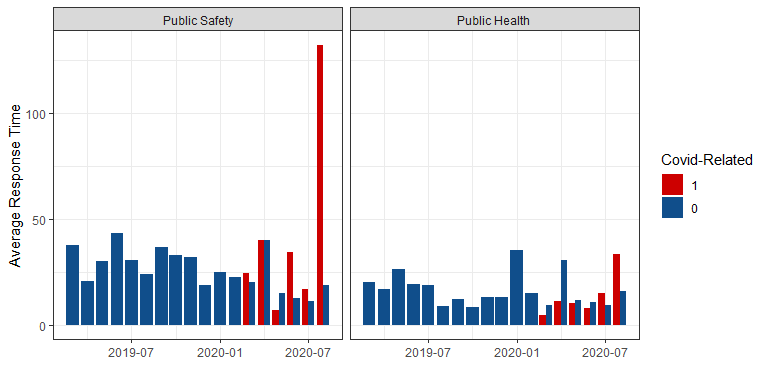
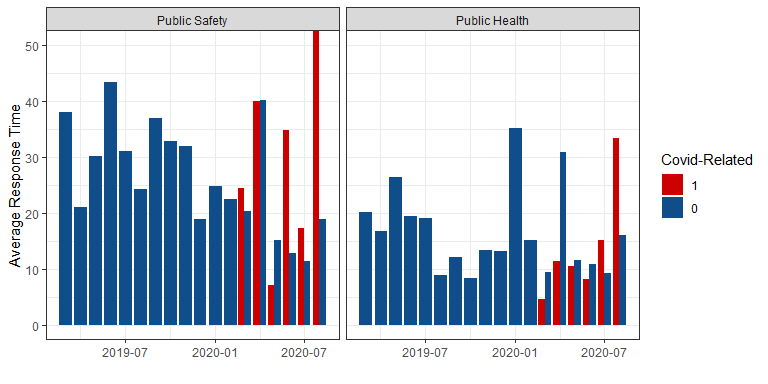
update

diff --git a/draft_v2.md b/draft_v2.md
@@ -149,6 +149,7 @@ dat %>%
        x = "",
        fill = "Covid-Related"
        )+
+  coord_cartesian(ylim = c(0, 50)) +
   theme_bw()
 ```
 
@@ -157,6 +158,43 @@ dat %>%
     ## Joining, by = "CATEGORY"
 
 ![](draft_v2_files/figure-gfm/unnamed-chunk-3-1.png)<!-- -->
+
+``` r
+# plot request volume by categories
+dat %>% 
+  filter(CATEGORY != "Data Not Available") %>%
+  filter(CREATEMO %in% 3:8) %>%
+  group_by(CREATEYR,allcovid,CATEGORY) %>%
+  count() %>% 
+  left_join(diff)%>%
+  mutate(CREATEYR = as.factor(CREATEYR),allcovid = as.factor(allcovid) )%>%
+  ggplot(aes(x = CREATEYR, y = n,  group = reorder(CREATEYR,n), fill = CREATEYR))+
+  geom_col_pattern(aes(pattern = reorder(allcovid,n)),#position = position_dodge(),
+                   col="black",width = 0.8)+
+  facet_wrap(~reorder(CATEGORY,-diff_pchg), scale = "free_y", ncol = 5)+
+  scale_fill_manual(values = c("dodgerblue4","red3"))+
+  scale_pattern_manual(values=c("stripe","none"))+
+  scale_y_continuous(labels =scales::comma)+
+  labs(y = "Requests Volume",
+       x = "",
+       fill = "Year",
+       pattern = "Covid-Related"
+       )+
+  theme_bw()
+```
+
+    ## Joining, by = "CATEGORY"
+
+    ## Warning: convert_polygon_sf_to_polygon_df(): Not POLYGON or MULTIPOLYGON:
+    ## c("XY", "LINESTRING", "sfg")
+
+    ## Warning: convert_polygon_sf_to_polygon_df(): Not POLYGON or MULTIPOLYGON:
+    ## c("XY", "LINESTRING", "sfg")
+
+    ## Warning: convert_polygon_sf_to_polygon_df(): Not POLYGON or MULTIPOLYGON:
+    ## c("XY", "LINESTRING", "sfg")
+
+![](draft_v2_files/figure-gfm/unnamed-chunk-4-1.png)<!-- -->
 
 ``` r
 # plot response time by categories
@@ -171,10 +209,10 @@ dat %>%
   dcast(CATEGORY+diff_pchg~CREATEYR) %>% mutate(
     dtc_chg = `2020`-`2019`
   ) %>%
-  ggplot(aes(x = dtc_chg, y = reorder(CATEGORY,diff_pchg), fill = (diff_pchg>1) ))+
+  ggplot(aes(x = dtc_chg, y = reorder(CATEGORY,diff_pchg), fill = (diff_pchg) ))+
   geom_col(show.legend = FALSE)+
-  xlim(c(-10,25))+
-  scale_fill_manual(values = c("red3","dodgerblue4"))+
+  xlim(c(-10,20))+
+  #scale_fill_manual(values = c("red3","dodgerblue4"))+
   labs(x = "Change in Average Response Time",
        y = "",
   )+
@@ -189,7 +227,7 @@ dat %>%
 
     ## Warning: Removed 1 rows containing missing values (position_stack).
 
-![](draft_v2_files/figure-gfm/unnamed-chunk-4-1.png)<!-- -->
+![](draft_v2_files/figure-gfm/unnamed-chunk-5-1.png)<!-- -->
 
 Method
 
@@ -291,7 +329,7 @@ dat %>%
 
     ## Warning: Removed 2 rows containing missing values (geom_point).
 
-![](draft_v2_files/figure-gfm/unnamed-chunk-5-1.png)<!-- -->
+![](draft_v2_files/figure-gfm/unnamed-chunk-6-1.png)<!-- -->
 
 ``` r
 #linear regression
